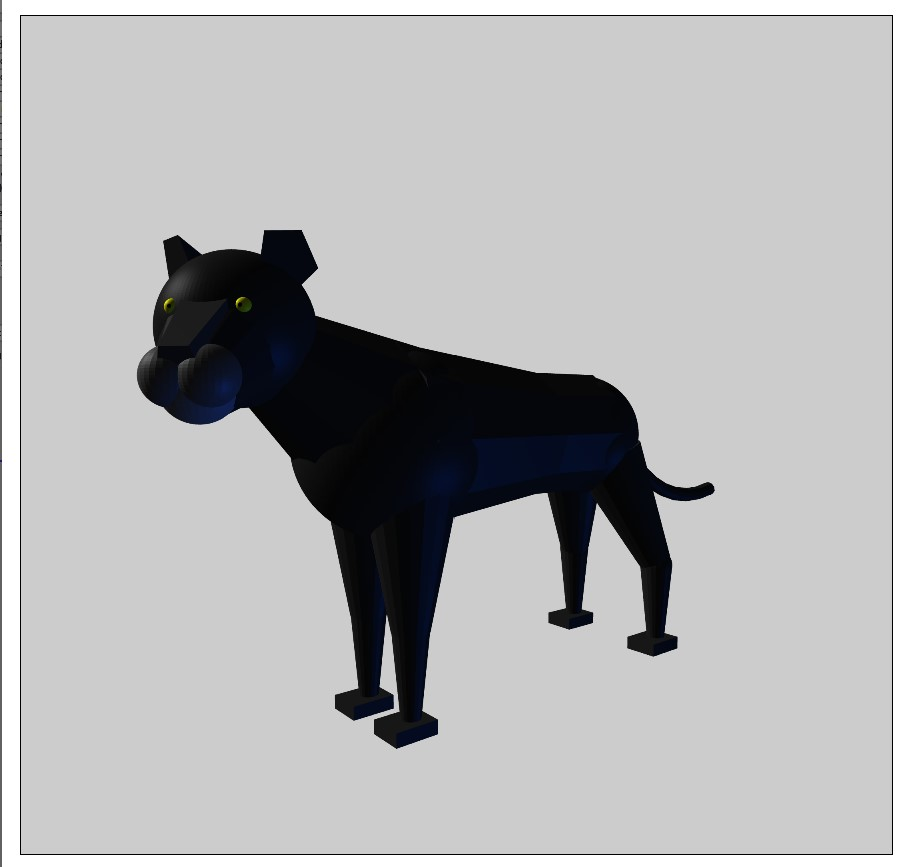
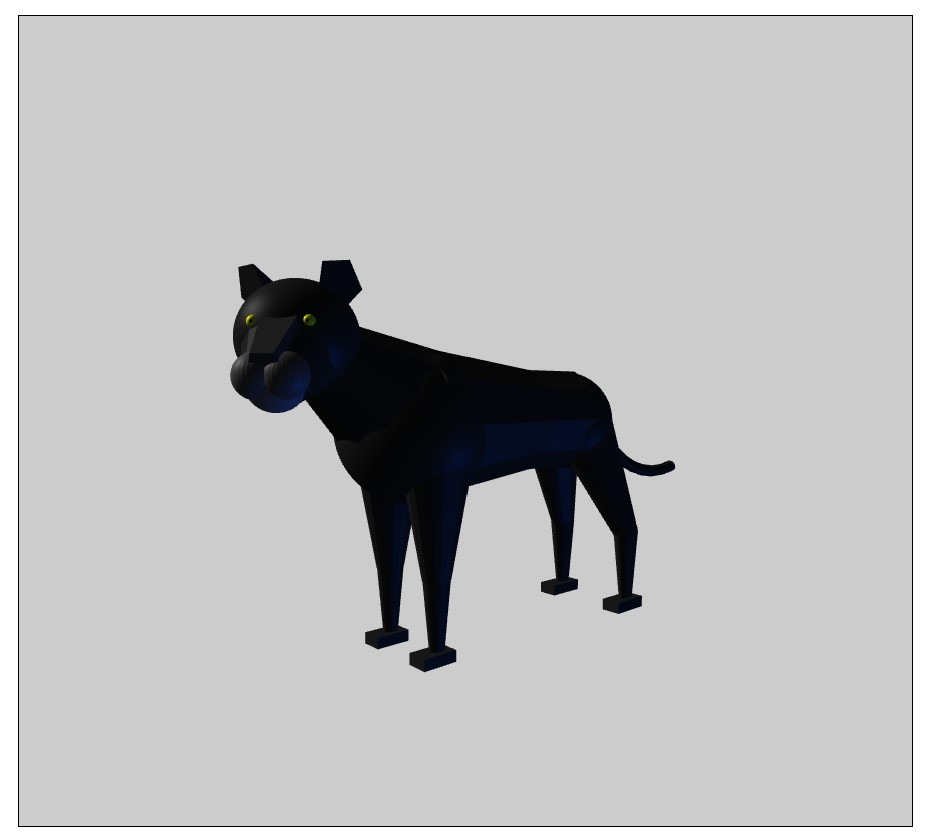
Updated jpg and panther head scale

Changed region(s): [[0.1547, 0.2476, 0.8044, 0.8667], [0.0, 0.0, 0.9901, 0.9905]]

diff --git a/src/app.ts b/src/app.ts
@@ -14,6 +14,7 @@ class Drawing extends DrawingCommon {
 	*/
 	initializeScene(){
         const objectRoot = new THREE.Group();
+        objectRoot.scale.set(0.8, 0.8, 0.8)
 
         // HeadRoot
         var headRoot = new THREE.Group();
@@ -28,6 +29,7 @@ class Drawing extends DrawingCommon {
         var material = new THREE.MeshPhongMaterial( { color: 0x202020, flatShading: true } );
         var mesh = new THREE.Mesh( geometry, material );
         mesh.position.set(0,0,0);
+        mesh.scale.set(1, .95, 1)
         headRoot.add( mesh );
 
         // Eyes
